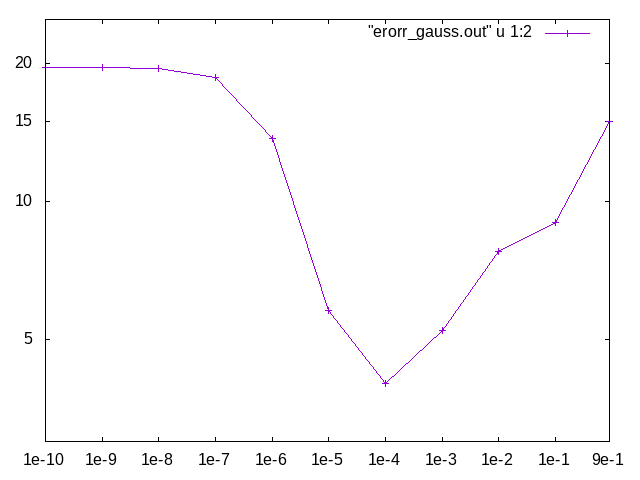
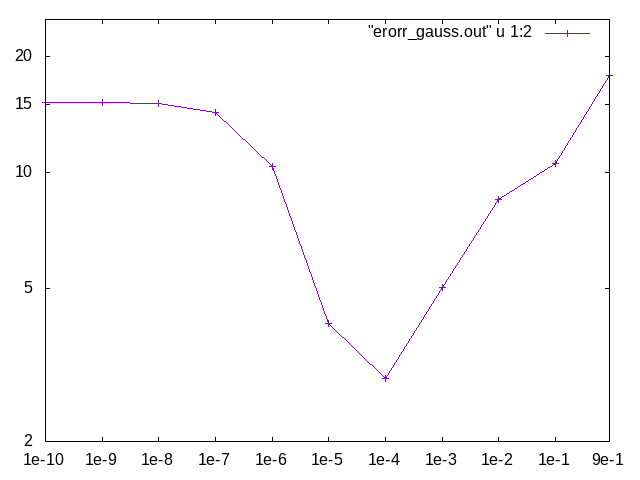
Gauss + pca funcional

diff --git a/Proyecto/gaussian.m b/Proyecto/gaussian.m
@@ -1,6 +1,5 @@
 function [etr, edv] = gaussian(Xtr, xltr, Xdv, xldv, alphas)
 
-    plot_mat = [];
 
     %Probabilidad a priori clases
     pc = [];
@@ -35,6 +34,7 @@ function [etr, edv] = gaussian(Xtr, xltr, Xdv, xldv, alphas)
     
     for a = alphas
         G = [];
+        Gv = [];
 
         for i = unique(xltr)'
             i_mat = eye(rows(sigma{i+1}));
@@ -47,11 +47,18 @@ function [etr, edv] = gaussian(Xtr, xltr, Xdv, xldv, alphas)
         cls = i_max - 1;
         etr = mean(xltr!=cls)*100;
 
-        plot_mat = [plot_mat; a, etr];
-    
+        for i = unique(xldv)'
+            i_mat = eye(rows(sigma{i+1}));
+            norm_sigma =  a * sigma{i+1} + (1 - a) * i_mat;
+            gc_vect = gc( pc(i+1, :), mu(i+1, :)', norm_sigma, Xdv);
+            Gv = [Gv , gc_vect];
+        endfor
+
+        [val_max, i_max] = max(Gv, [], 2);
+        cls = i_max - 1;
+        edv = mean(xldv!=cls)*100;
     endfor
     
-    save_precision(4); save("erorr_gauss.out", "plot_mat");
 
 
 endfunction

diff --git a/Proyecto/gaussian+pca-exp.m b/Proyecto/gaussian+pca-exp.m
@@ -1,0 +1,46 @@
+#!/snap/bin/octave -qf
+
+if (nargin!=6)
+printf("Usage: gaussian+pca-exp.m <trdata> <trlabels> <alphas> <%%trper> <%%dvper> <ks>\n")
+exit(1);
+end;
+
+arg_list=argv();
+trdata=arg_list{1};
+trlabs=arg_list{2};
+alphas=str2num(arg_list{3});
+trper=str2num(arg_list{4});
+dvper=str2num(arg_list{5});
+ks=str2num(arg_list{6});
+
+
+load(trdata);
+load(trlabs);
+
+N=rows(X);
+
+
+Ntr=round(trper/100*N);
+Ndv=round(dvper/100*N);
+Xtr=X(1:Ntr,:); xltr=xl(1:Ntr);
+Xdv=X(N-Ndv+1:N,:); xldv=xl(N-Ndv+1:N);
+
+[m W] = pca(Xtr);
+
+err_mat = [];
+
+for a = alphas
+    err_mat_a =[];
+    for i = ks 
+        XtrP = (Xtr - m) * W(:, 1:i);
+        XdvP = (Xdv - m) * W(:, 1:i);
+        [etr, edv] = gaussian(XtrP, xltr, XdvP, xldv, a);
+
+        err_mat_a = [err_mat_a; a, i, edv];
+    end
+
+    err_mat = [err_mat, err_mat_a];
+end
+
+
+save_precision(4); save("error_gauss+pca.out", "err_mat");

diff --git a/Proyecto/gaussian+pca-eva.m b/Proyecto/gaussian+pca-eva.m
@@ -1,0 +1,44 @@
+#!/snap/bin/octave -qf
+
+if (nargin!=6)
+printf("Usage: gaussian+pca-eva.m <trdata> <trlabels> <tedata> <telabels> <alphas> <ks>\n")
+exit(1);
+end;
+
+arg_list=argv();
+trdata=arg_list{1};
+trlabs=arg_list{2};
+tedata=arg_list{3};
+telabs=arg_list{4};
+alphas=str2num(arg_list{5});
+ks=str2num(arg_list{6});
+
+
+load(trdata);
+load(trlabs);
+load(tedata);
+load(telabs);
+
+
+% a = 1e-4 ks = 100
+
+[m W] = pca(X);
+
+err_mat = [];
+
+for a = alphas
+    err_mat_a =[];
+    for i = ks 
+        Xr = (X - m) * W(:, 1:i);
+        Yr = (Y - m) * W(:, 1:i);
+        [etr, edv] = gaussian(Xr, xl, Yr, yl, a);
+
+        err_mat_a = [err_mat_a; a, i, edv];
+    end
+
+    err_mat = [err_mat, err_mat_a];
+end
+
+save_precision(4); save("error_gauss+pca-eva.out", "err_mat");
+
+

diff --git a/Proyecto/gaussian-exp.m b/Proyecto/gaussian-exp.m
@@ -24,5 +24,14 @@ Xtr=X(1:Ntr,:); xltr=xl(1:Ntr);
 Xdv=X(N-Ndv+1:N,:); xldv=xl(N-Ndv+1:N);
 
 
-gaussian(Xtr, xltr, Xdv, xldv, alphas);
+plot_mat = [];
+
+for a=alphas
+
+    [etr, edv] = gaussian(Xtr, xltr, Xdv, xldv, a);
+    plot_mat = [plot_mat; a, edv];
+
+endfor
+
+save_precision(4); save("erorr_gauss.out", "plot_mat");
 
